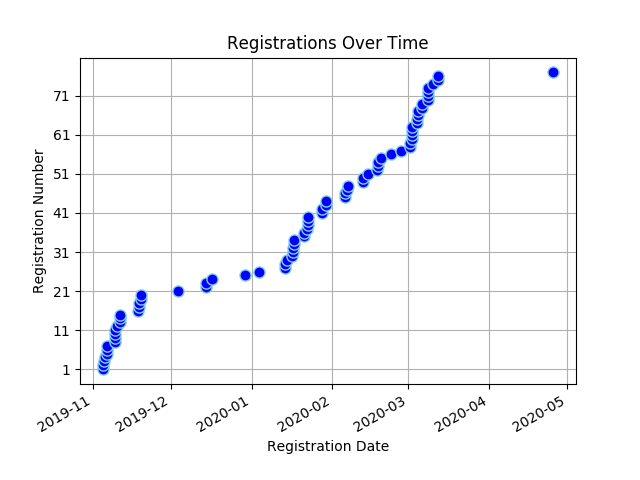
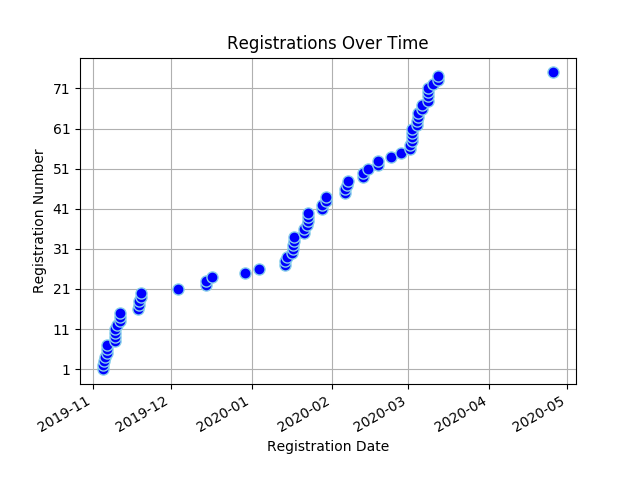
Registree stats backup on Tue Jun  2 15:16:03 SAST 2020

diff --git a/content/registrees/_index.md b/content/registrees/_index.md
@@ -3,9 +3,9 @@ title: Registration Stats
 draft: false
 ---
 
-<ul><li><strong>Number of Registrees</strong>: 77</li>
+<ul><li><strong>Number of Registrees</strong>: 75</li>
 
-<li><strong>Number of Clubs</strong>: 41</li>
+<li><strong>Number of Clubs</strong>: 40</li>
 
 <li><strong>Clubs With Most Attendees</strong>: Cape Of Good Hope, Wilro Park (5 registrees)</li>
 </ul><h2>Registrees</h2>
@@ -30,6 +30,6 @@ draft: false
         </tr>
     </thead>
     <tbody>
-<tr><td>Tayebwa Smith Bamwesigye</td><td>Butterworth</td></tr><tr><td>Karl Bands</td><td>Helderkruin</td></tr><tr><td>Jonquille Bands</td><td>Helderkruin</td></tr><tr><td>Valencia Beukes</td><td>Kuilsriver</td></tr><tr><td>Annette Bothma</td><td>Fish Hoek</td></tr><tr><td>Jose Braga Borges</td><td>Malmesbury</td></tr><tr><td>Lynnette Virginia Christians</td><td>Cape Of Good Hope</td></tr><tr><td>Desiree Du Toit</td><td>Ramsgate</td></tr><tr><td>Bernd Gerhard</td><td>Wilro Park</td></tr><tr><td>Shirley Gerhard</td><td>Wilro Park</td></tr><tr><td>Valerie Graham</td><td>Nelspruit</td></tr><tr><td>Michael Graham</td><td>Nelspruit</td></tr><tr><td>Victor Hawla</td><td>Krugersdorp</td></tr><tr><td>Loriane Hawla</td><td>(Partner in Service)</td></tr><tr><td>Barbara Haywood</td><td>Eden</td></tr><tr><td>Wendy Higgins</td><td>Wilro Park</td></tr><tr><td>Trevor Hobbs</td><td>North Durban</td></tr><tr><td>Avril Hobbs</td><td>North Durban</td></tr><tr><td>Jacqui Hocking</td><td>Midrand</td></tr><tr><td>Cliff Hocking</td><td>Midrand</td></tr><tr><td>Akinyemi Ismaila Tunde</td><td>-</td></tr><tr><td>Dawid Jacobs</td><td>Durbanville</td></tr><tr><td>Jean Jacobs</td><td>Mitchells Plain</td></tr><tr><td>Brenda Joshua</td><td>Cape Of Good Hope</td></tr><tr><td>Pascal Kabangu</td><td>Cape Of Good Hope</td></tr><tr><td>Zwaai Krüger</td><td>Sedgefield</td></tr><tr><td>Bevil Lakay</td><td>Mitchells Plain</td></tr><tr><td>Paula Lang</td><td>Gordons Bay</td></tr><tr><td>James Malcolm Lang</td><td>Gordons Bay</td></tr><tr><td>Lance Maytham</td><td>Bredasdorp</td></tr><tr><td>Roy Michas</td><td>Midrand</td></tr><tr><td>Dawn Michas</td><td>Midrand</td></tr><tr><td>Patrick Mills</td><td>Centurion</td></tr><tr><td>Bernice Mills</td><td>Centurion</td></tr><tr><td>Alain Moulounda</td><td>Cape Of Good Hope</td></tr><tr><td>Suzanne Murray</td><td>Vereeniging</td></tr><tr><td>Pieter Nel</td><td>George</td></tr><tr><td>Michael Newlands</td><td>Port Alfred</td></tr><tr><td>Ramona Nulliah</td><td>Durban Host</td></tr><tr><td>Gary Nulliah</td><td>Durban Host</td></tr><tr><td>Teresa Pantoleon</td><td>Vereeniging</td></tr><tr><td>William Pfaff</td><td>North Durban</td></tr><tr><td>Patrick Pillay</td><td>Tygerberg Hills</td></tr><tr><td>Gavin Polkinghorne</td><td>Kensington</td></tr><tr><td>Tracey Polkinghorne</td><td>Kensington</td></tr><tr><td>Karin Preston</td><td>Durban South</td></tr><tr><td>Leon Ras</td><td>Swellendam</td></tr><tr><td>Mary-Anne Ras</td><td>Swellendam</td></tr><tr><td>Moira Rigby</td><td>Kingsburgh</td></tr><tr><td>David Rigby</td><td>Kingsburgh</td></tr><tr><td>Mark Rossouw</td><td>Tokai</td></tr><tr><td>Sharon Sampie</td><td>Bergvliet</td></tr><tr><td>Susanna Helena Smit</td><td>Centurion</td></tr><tr><td>Herman Smit</td><td>Swellendam</td></tr><tr><td>Berdine Smit</td><td>(Partner in Service)</td></tr><tr><td>Rochelle Smith</td><td>Cape Of Good Hope</td></tr><tr><td>Jeff Smith</td><td>Port Shepstone</td></tr><tr><td>Diane Townsend</td><td>Benoni Lakes</td></tr><tr><td>Kendyl Townsend</td><td>Benoni Lakes</td></tr><tr><td>Alex Tshikala</td><td>Athlone</td></tr><tr><td>Alistair Tuckett</td><td>Roodepoort Clearwater Cyber</td></tr><tr><td>Rowan Tuckett</td><td>Roodepoort Clearwater Cyber</td></tr><tr><td>Neville Van Rensburg</td><td>Moorreesburg</td></tr><tr><td>Joyce Wilcocks</td><td>Pretoria Jakaranda</td></tr><tr><td>Richard Williams</td><td>(Partner in Service)</td></tr><tr><td>Owolabi Williams Monzur</td><td>Badagry</td></tr><tr><td>Geila Wills</td><td>Cape Town</td></tr><tr><td>Patricia Wilson</td><td>Kingsburgh</td></tr><tr><td>Judy Young</td><td>Durbanville</td></tr><tr><td>Sydney van Heerden</td><td>Wilro Park</td></tr><tr><td>Sandy van Heerden</td><td>Wilro Park</td></tr><tr><td>Lindie van Wyk</td><td>Pretoria Jakaranda</td></tr><tr><td>Martha Maria van der Merwe</td><td>Malmesbury</td></tr><tr><td>Brian von der Decken</td><td>King William's Town</td></tr><tr><td>Janet von der Decken</td><td>(Partner in Service)</td></tr><tr><td>Andrew von der Decken</td><td>King William's Town</td></tr><tr><td>Ann von der Decken</td><td>King William's Town</td></tr>
+<tr><td>Tayebwa Smith Bamwesigye</td><td>Butterworth</td></tr><tr><td>Karl Bands</td><td>Helderkruin</td></tr><tr><td>Jonquille Bands</td><td>Helderkruin</td></tr><tr><td>Valencia Beukes</td><td>Kuilsriver</td></tr><tr><td>Annette Bothma</td><td>Fish Hoek</td></tr><tr><td>Jose Braga Borges</td><td>Malmesbury</td></tr><tr><td>Lynnette Virginia Christians</td><td>Cape Of Good Hope</td></tr><tr><td>Desiree Du Toit</td><td>Ramsgate</td></tr><tr><td>Bernd Gerhard</td><td>Wilro Park</td></tr><tr><td>Shirley Gerhard</td><td>Wilro Park</td></tr><tr><td>Valerie Graham</td><td>Nelspruit</td></tr><tr><td>Michael Graham</td><td>Nelspruit</td></tr><tr><td>Victor Hawla</td><td>Krugersdorp</td></tr><tr><td>Loriane Hawla</td><td>(Partner in Service)</td></tr><tr><td>Barbara Haywood</td><td>Eden</td></tr><tr><td>Wendy Higgins</td><td>Wilro Park</td></tr><tr><td>Trevor Hobbs</td><td>North Durban</td></tr><tr><td>Avril Hobbs</td><td>North Durban</td></tr><tr><td>Jacqui Hocking</td><td>Midrand</td></tr><tr><td>Cliff Hocking</td><td>Midrand</td></tr><tr><td>Akinyemi Ismaila Tunde</td><td>-</td></tr><tr><td>Dawid Jacobs</td><td>Durbanville</td></tr><tr><td>Brenda Joshua</td><td>Cape Of Good Hope</td></tr><tr><td>Pascal Kabangu</td><td>Cape Of Good Hope</td></tr><tr><td>Zwaai Krüger</td><td>Sedgefield</td></tr><tr><td>Bevil Lakay</td><td>Mitchells Plain</td></tr><tr><td>Paula Lang</td><td>Gordons Bay</td></tr><tr><td>James Malcolm Lang</td><td>Gordons Bay</td></tr><tr><td>Lance Maytham</td><td>Bredasdorp</td></tr><tr><td>Roy Michas</td><td>Midrand</td></tr><tr><td>Dawn Michas</td><td>Midrand</td></tr><tr><td>Patrick Mills</td><td>Centurion</td></tr><tr><td>Bernice Mills</td><td>Centurion</td></tr><tr><td>Alain Moulounda</td><td>Cape Of Good Hope</td></tr><tr><td>Suzanne Murray</td><td>Vereeniging</td></tr><tr><td>Pieter Nel</td><td>George</td></tr><tr><td>Michael Newlands</td><td>Port Alfred</td></tr><tr><td>Ramona Nulliah</td><td>Durban Host</td></tr><tr><td>Gary Nulliah</td><td>Durban Host</td></tr><tr><td>Teresa Pantoleon</td><td>Vereeniging</td></tr><tr><td>William Pfaff</td><td>North Durban</td></tr><tr><td>Patrick Pillay</td><td>Tygerberg Hills</td></tr><tr><td>Gavin Polkinghorne</td><td>Kensington</td></tr><tr><td>Tracey Polkinghorne</td><td>Kensington</td></tr><tr><td>Karin Preston</td><td>Durban South</td></tr><tr><td>Leon Ras</td><td>Swellendam</td></tr><tr><td>Mary-Anne Ras</td><td>Swellendam</td></tr><tr><td>Moira Rigby</td><td>Kingsburgh</td></tr><tr><td>David Rigby</td><td>Kingsburgh</td></tr><tr><td>Sharon Sampie</td><td>Bergvliet</td></tr><tr><td>Susanna Helena Smit</td><td>Centurion</td></tr><tr><td>Herman Smit</td><td>Swellendam</td></tr><tr><td>Berdine Smit</td><td>(Partner in Service)</td></tr><tr><td>Rochelle Smith</td><td>Cape Of Good Hope</td></tr><tr><td>Jeff Smith</td><td>Port Shepstone</td></tr><tr><td>Diane Townsend</td><td>Benoni Lakes</td></tr><tr><td>Kendyl Townsend</td><td>Benoni Lakes</td></tr><tr><td>Alex Tshikala</td><td>Athlone</td></tr><tr><td>Alistair Tuckett</td><td>Roodepoort Clearwater Cyber</td></tr><tr><td>Rowan Tuckett</td><td>Roodepoort Clearwater Cyber</td></tr><tr><td>Neville Van Rensburg</td><td>Moorreesburg</td></tr><tr><td>Joyce Wilcocks</td><td>Pretoria Jakaranda</td></tr><tr><td>Richard Williams</td><td>(Partner in Service)</td></tr><tr><td>Owolabi Williams Monzur</td><td>Badagry</td></tr><tr><td>Geila Wills</td><td>Cape Town</td></tr><tr><td>Patricia Wilson</td><td>Kingsburgh</td></tr><tr><td>Judy Young</td><td>Durbanville</td></tr><tr><td>Sydney van Heerden</td><td>Wilro Park</td></tr><tr><td>Sandy van Heerden</td><td>Wilro Park</td></tr><tr><td>Lindie van Wyk</td><td>Pretoria Jakaranda</td></tr><tr><td>Martha Maria van der Merwe</td><td>Malmesbury</td></tr><tr><td>Brian von der Decken</td><td>King William's Town</td></tr><tr><td>Janet von der Decken</td><td>(Partner in Service)</td></tr><tr><td>Andrew von der Decken</td><td>King William's Town</td></tr><tr><td>Ann von der Decken</td><td>King William's Town</td></tr>
 </tbody>
 </table>

diff --git a/content/full_stats/_index.md b/content/full_stats/_index.md
@@ -17,34 +17,34 @@ draft: false
 <body>
 <h1 style="color: #000000;">Full Registration Stats</h1>
 <ul><li><strong>Number of Registrees</strong><ul>
-<li><strong>Total</strong>: 77</li>
-<li><strong>Lions</strong>: 73</li>
+<li><strong>Total</strong>: 75</li>
+<li><strong>Lions</strong>: 71</li>
 <li><strong>Partners In Service</strong>: 4</li>
 </ul>
-<li><strong>Number of Clubs</strong>: 41</li>
+<li><strong>Number of Clubs</strong>: 40</li>
 <li><strong>Clubs With Most Attendees</strong>: Cape Of Good Hope, Wilro Park (5 registrees)</li>
-<li><strong>Registrations</strong></li><ul><li><strong>Full</strong>: 74
+<li><strong>Registrations</strong></li><ul><li><strong>Full</strong>: 72
 <li><strong>Banquet</strong>: 1
 <li><strong>Convention</strong>: 2
 <li><strong>Theme</strong>: 1
 </ul><li><strong>Extra Items</strong></li><ul>
-<li><strong>Pins</strong>: 71
+<li><strong>Pins</strong>: 69
 </ul><li><strong>Extra Activities</strong></li><ul>
 <li><strong>MJF Lunch</strong>: 22
 <li><strong>PDG Breakfast</strong>: 15
 <li><strong>Sharks Board</strong>: 4
 <li><strong>Golf</strong>: 2
-<li><strong>Sight Seeing</strong>: 11
-<li><strong>Service Project</strong>: 12
+<li><strong>Sight Seeing</strong>: 9
+<li><strong>Service Project</strong>: 10
 <li><strong>Partner Program</strong>: 4
 </ul>
 <li><strong>Payment Details</strong></li><ul>
-<li><strong>Total Owed:</strong> R100745.00</li>
-<li><strong>Paid:</strong> R44420.00</li>
-<li><strong>Still Owed:</strong> R56325.00</li>
-<li><strong>Number of Attendees Who Have Paid in Full:</strong> 31 (40.26%)</li>
-<li><strong>Number of Attendees Who Have Paid in Part:</strong> 8 (10.39%)</li>
-<li><strong>Number of Attendees Who Haven't Paid Anything:</strong> 38 (49.35%)</li>
+<li><strong>Total Owed:</strong> R98065.00</li>
+<li><strong>Paid:</strong> R42630.00</li>
+<li><strong>Still Owed:</strong> R55435.00</li>
+<li><strong>Number of Attendees Who Have Paid in Full:</strong> 30 (40.00%)</li>
+<li><strong>Number of Attendees Who Have Paid in Part:</strong> 7 (9.33%)</li>
+<li><strong>Number of Attendees Who Haven't Paid Anything:</strong> 38 (50.67%)</li>
 </ul>
 <li><strong>Cancellations</strong></li><ul>
 <li>20-02-07 McCullough, David (reg number: 058)</li>
@@ -90,6 +90,8 @@ draft: false
 <li>20-05-20 King, Ian (reg number: 124)</li>
 <li>20-05-20 King, Sandy (reg number: 125)</li>
 <li>20-05-25 Human , Leslie  (reg number: 107)</li>
+<li>20-06-02 Rossouw, Mark (reg number: 094)</li>
+<li>20-06-02 Jacobs, Jean (reg number: 097)</li>
 </ul>
 <li><strong>Dietary Requirements</strong></li><ul>
 <li>Allergic to Shellfish</li>
@@ -373,17 +375,6 @@ StillOwed
 <td>1340.00</td>
 <td>0.00</td>
 <td>1340.00</td>
-</tr>
-
-    
-<tr>
-<td>97</td>
-<td>Jean Jacobs</td>
-<td>Mitchells Plain</td>
-<td>VP Jean Jacobs</td>
-<td>1340.00</td>
-<td>450.00</td>
-<td>890.00</td>
 </tr>
 
     
@@ -681,17 +672,6 @@ StillOwed
 <td>400.00</td>
 <td>0.00</td>
 <td>400.00</td>
-</tr>
-
-    
-<tr style="background-color: lightgreen">
-<td>94</td>
-<td>Mark Rossouw</td>
-<td>Tokai</td>
-<td>VP Mark Rossouw</td>
-<td>1340.00</td>
-<td>1340.00</td>
-<td>0.00</td>
 </tr>
 
     
